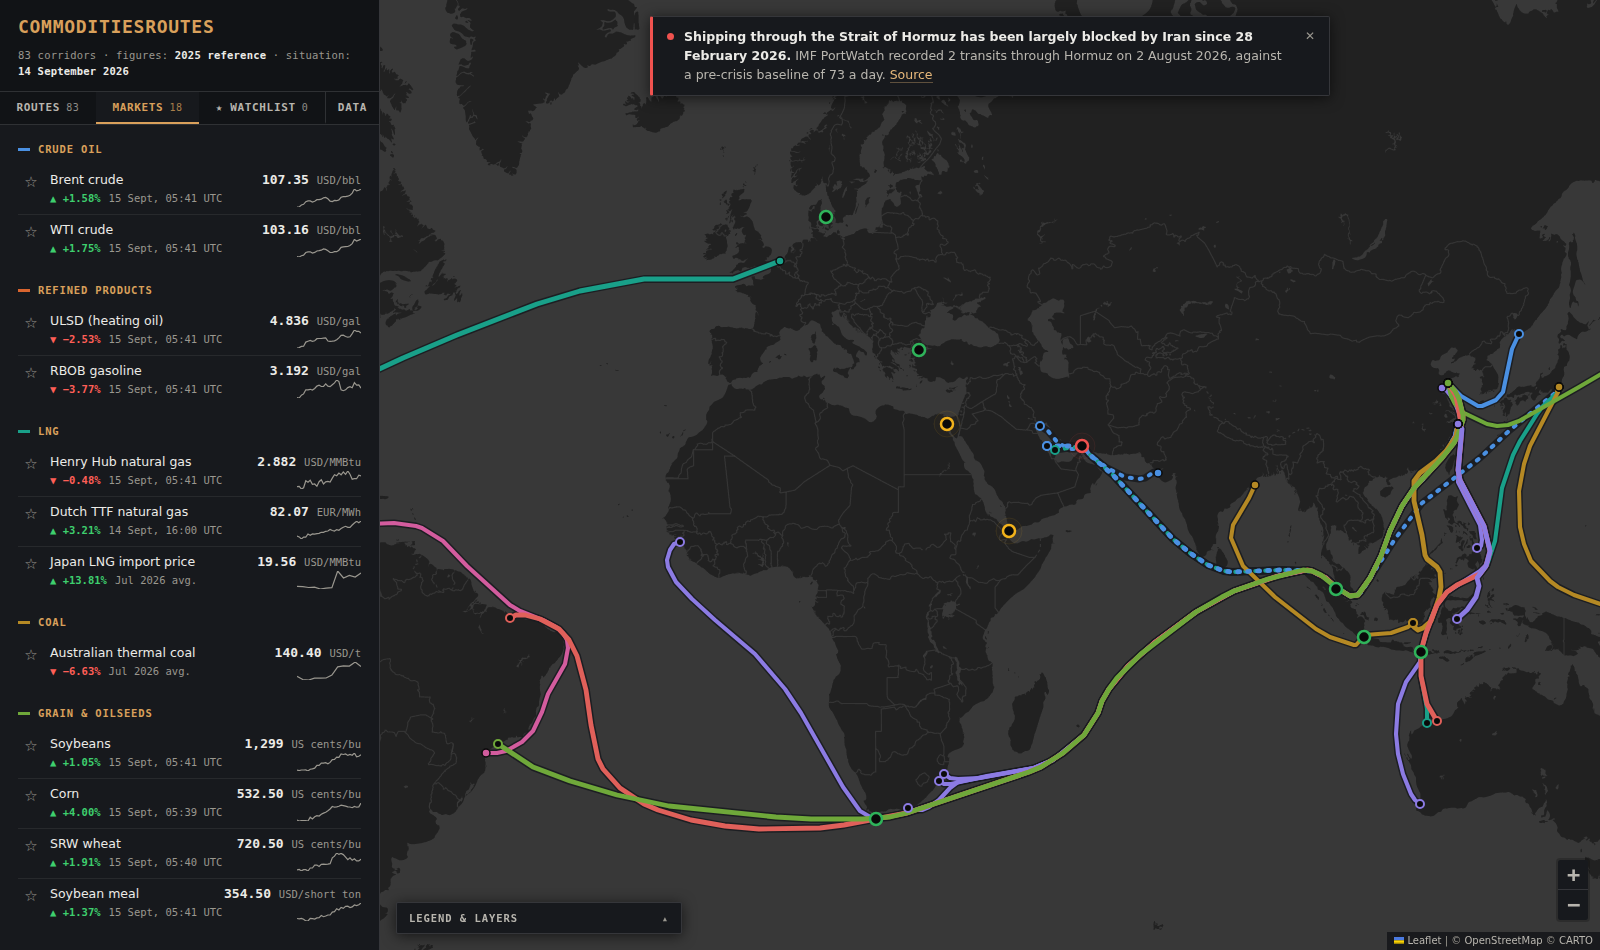
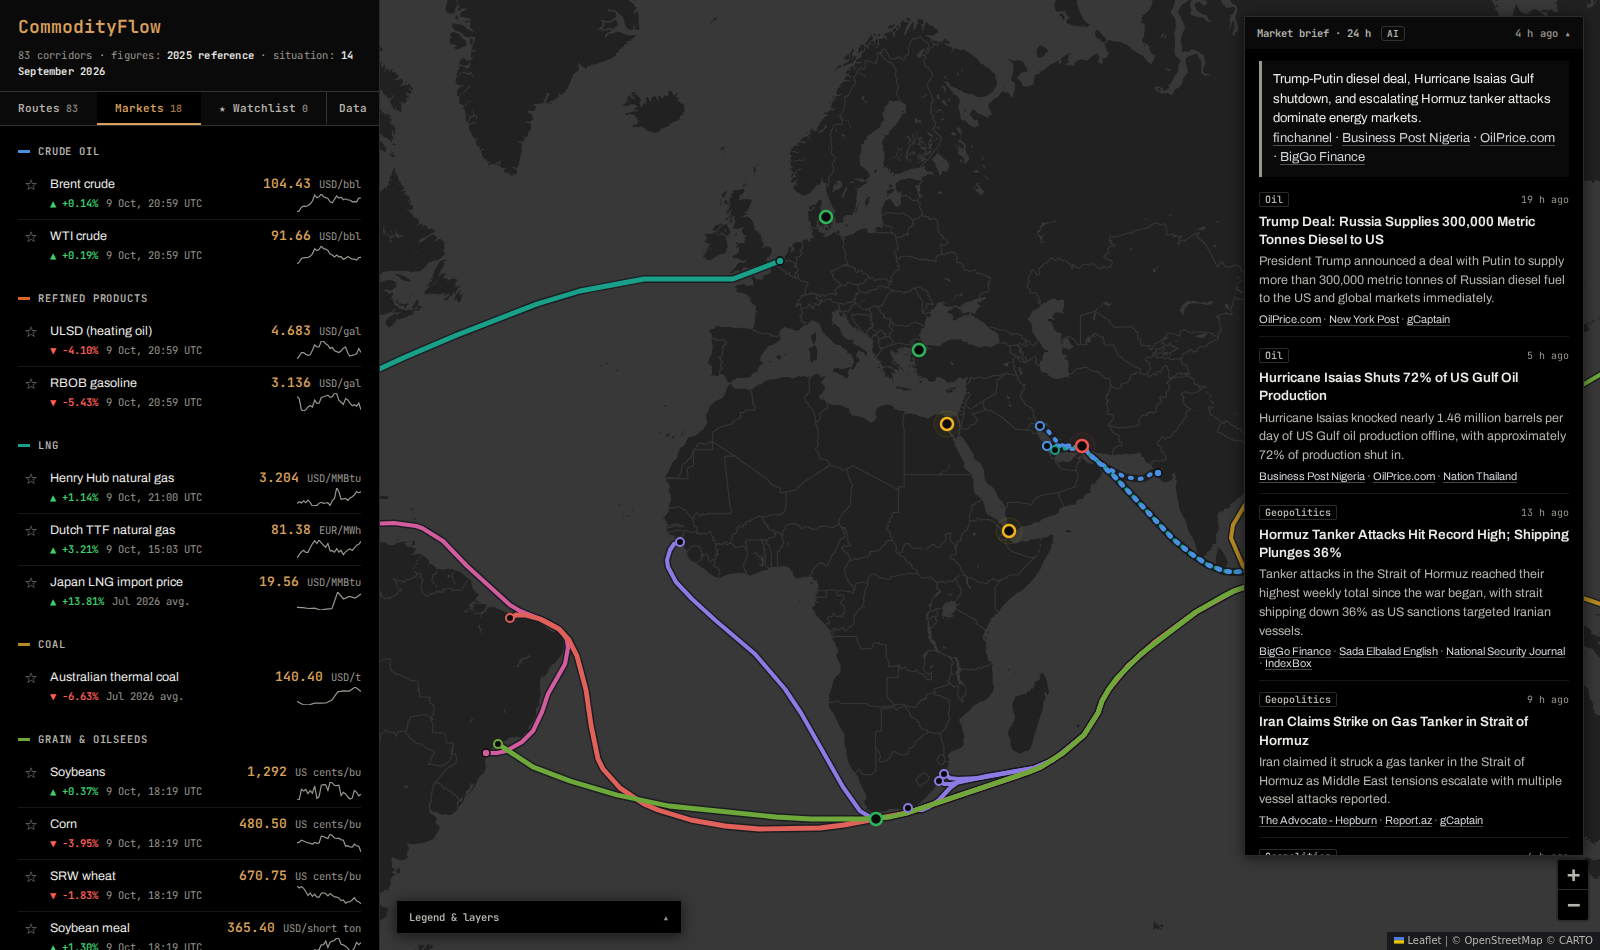
Docs and screenshots up to date for audit

diff --git a/src/index.css b/src/index.css
@@ -1,7 +1,7 @@
 /* ==========================================================================
    CommodityFlow
-   A dark, dense market-terminal interface on a CARTO Dark Matter basemap:
-   black panels, amber labels, monospace figures. Series colours live in
+   A dense trading-terminal interface on a CARTO Dark Matter basemap: black
+   panels, Archivo text, JetBrains Mono figures, amber kept for active state. Series colours live in
    commodities.js; this sheet defines the surfaces, the inks and the rules.
    The token names (paper, ink) date from the light theme: paper is the panel
    surface, ink the text, whatever their actual values.

diff --git a/docs/TECHNICAL.md b/docs/TECHNICAL.md
@@ -3,10 +3,11 @@
 An interactive, terminal-style map of the world's major seaborne commodity corridors
 and markets. **83 routes**, **10 chokepoints** and **3 bypass pipelines**, backed by
 **359 sourced facts** from **169 sources** — every figure carries a link and the
-verbatim sentence it was taken from — plus **18 market prices** refreshed
-automatically.
+verbatim sentence it was taken from — plus two automated layers that never enter the
+dataset: **18 market prices** refreshed every 30 minutes and an **AI market brief** of
+the last 24 hours of news, rewritten every two hours.
 
-The sidebar has one menu with four entries:
+The sidebar has one menu with four entries (five on small screens):
 
 - **Routes** — filters (commodity, sub-family, country, search) and the route list.
 - **Markets** — every price, grouped by commodity family, with its daily or monthly
@@ -15,6 +16,8 @@ The sidebar has one menu with four entries:
   detail or price). Saved in your browser only (localStorage, no account). One click
   shows only the watchlist routes on the map.
 - **Data** — the *Data & sources* tables.
+- **News** (under 900 px only) — the AI market brief, which floats on the right of the
+  map on wider screens.
 
 ## Getting started
 
@@ -49,14 +52,18 @@ can open by double-clicking, see [Standalone file](#standalone-file-no-server).
 - **Filters compose** — commodity, sub-family, country and search stack, and a
   *Clear filters* link resets them in one click.
 - **Hover the list** — pointing at a row thickens its line on the map.
-- **Route detail** — origin, destination, drawn distance, the key figure, the
-  evidence for the status, a short analysis, every other sourced fact and the
-  chokepoints crossed. Each fact shows a scope badge (*this corridor*, *exporter*,
+- **Route detail** — estimated days at sea (vessel class and speed), distance, status,
+  then two blocks that never mix: the **2025 reference** (key figure and a three-line
+  trading context — sellers, buyers, why the route matters) and the **current
+  situation** (status, its evidence, market prices now). A **freight** block gives the
+  sailing-time calculation and any published transit time. Every other sourced fact
+  and the chokepoints crossed follow. Each fact shows a scope badge (*this corridor*, *exporter*,
   *importer*, *chokepoint*…), its period, a link to the source and, on demand, the
   verbatim quote.
 - **Data & sources** — a full-screen table of every fact (searchable, filterable by
   scope and by source), every source with its citation count, and every route with
-  its key figure. The five CSV files can be downloaded from there.
+  its freight data, key figure and current status. Every CSV file can be downloaded
+  from there.
 - **Chokepoints** — Hormuz, Malacca, Suez, Bab el-Mandeb, Cape of Good Hope,
   Panama, the Turkish Straits, the Danish Straits, Lombok, Sunda. Click one for
   its sourced volumes and the list of routes using it.
@@ -68,6 +75,11 @@ can open by double-clicking, see [Standalone file](#standalone-file-no-server).
   hidden, and a checkbox disables the behaviour.
 - **Hormuz bypass pipelines** — Petroline, ADCOP, Goreh-Jask, dashed in grey,
   with their capacities.
+- **AI market brief** — a collapsible panel on the right of the map: 5 to 8 commodity
+  and geopolitical stories from the last 24 hours, each linked to its articles (see
+  [AI news brief](#ai-news-brief)).
+- **Watchlist** — star routes and prices; one toggle shows only the starred routes
+  on the map.
 
 ## Data
 
@@ -109,7 +121,7 @@ analysis says so. Line thickness is an ordinal rank from 1 to 5, not a measureme
 ## Live market prices
 
 Alongside the verified dataset, the map shows **market prices refreshed automatically**:
-a *Markets* panel under the commodity filter, *Market prices now* in each route's
+the *Markets* tab of the sidebar, starred prices in the *Watchlist*, *Market prices now* in each route's
 current-situation block (with the gap to the 2025 average), and a *Market prices* tab in
 *Data & sources*. These prices are an automated feed and never enter `data/facts.csv`.
 
@@ -214,8 +226,9 @@ check; pages that block automated requests and PDFs are listed for a manual look
 
 ### `npm run check:english`
 
-Walks every user-facing string — route names, fact statements, analyses, ports,
-chokepoints, pipelines, commodities, statuses and JSX literals — and fails if anything
+Walks every user-facing string — route names, fact statements, trading contexts,
+situations, analyses, vessel labels, ports, chokepoints, pipelines, commodities,
+statuses and JSX literals — and fails if anything
 still reads as French. Quotes are verbatim and are not checked.
 
 ### `npm run check:data`
@@ -224,8 +237,13 @@ still reads as French. Quotes are verbatim and are not checked.
   commodities, statuses, sub-families.
 - **Evidence** — every route, chokepoint and pipeline has facts and a lead fact that
   applies to it; any status other than normal cites a fact; every fact has a quote;
-  every number of a statement appears in its quote; analyses and commodity blurbs
-  carry no figures; every source is cited.
+  every number of a statement appears in its quote; trading contexts, analyses,
+  situations and commodity blurbs carry no figures; every source is cited.
+- **Periods** — a lead fact is always a 2025 reference figure; a war-period fact is
+  never filed as baseline.
+- **Freight** — every vessel class has a sourced speed; distance and transit facts
+  apply to their route; a drawn path more than 20% away from the published distance
+  is reported as a warning.
 - **Geography** — a route that declares a strait passes through it and a route that
   passes through one declares it (a route's own port never counts as a transit:
   Fujairah sits 1.4° from Hormuz precisely because it exists to avoid it); path
@@ -249,31 +267,44 @@ The Natural Earth basemap is downloaded on first run into `scripts/.cache/`
 ## Structure
 
 ```
-data/                  the dataset — sources, facts, routes, chokepoints, pipelines (CSV)
+data/                  the dataset — sources, facts, routes, chokepoints, pipelines, vessels (CSV)
+  live/                inputs of the automated layers: instruments.csv (prices), news_sources.csv (news)
 src/
   data/
     csv.js             CSV reader/writer
-    dataset.js         builds routes/facts/sources objects from the CSV text
+    dataset.js         builds routes/facts/sources/vessels objects from the CSV text (incl. sailing days)
     index.js           the dataset as the app imports it (CSV inlined at build time)
     geometry.js        route paths, keyed by route id
     waypoints.js       ports (with country), chokepoint positions, pipeline paths, segments
     commodities.js     8 families, validated palette, sub-filters, statuses
     filters.js         country filter helpers
     scopes.js          fact scope labels
+    timeframes.js      war start date, SITUATION_AS_OF, period labels
+    live.js            useLiveJson (shared fetch + keep-last-good) and the market prices
+    news.js            the AI market brief feed
+    favorites.js       watchlist in localStorage
   lib/geo.js           Chaikin smoothing, antimeridian handling, distances
   components/
     MapView.jsx        Leaflet rendering (casings, lines, markers, tooltips)
-    DetailPanel.jsx    route and chokepoint cards   Facts.jsx  fact cards
+    DetailPanel.jsx    route and chokepoint cards (reference, current, freight)   Facts.jsx  fact cards
     DataView.jsx       Data & sources tables
+    MarketsPanel.jsx   prices, sparklines   Watchlist.jsx  Star.jsx
+    NewsPanel.jsx      AI market brief (floating panel / sidebar tab)
     CommodityFilter.jsx  CountryFilter.jsx  RouteList.jsx  MapPanel.jsx
   App.jsx              application state and layout
 scripts/
   lib/dataset.mjs      loads data/*.csv for the scripts
-  audit-routes.mjs     dataset integrity, evidence rules, geographic consistency
+  audit-routes.mjs     dataset integrity, evidence, period, freight and geographic rules
   check-sources.mjs    online re-verification of every quote
   check-english.mjs    translation guard
   check-land.mjs       land/sea check
+  check-live.mjs       instruments.csv + price fetcher self-test
+  check-news.mjs       news_sources.csv + category sync + news builder self-test
+  live/fetch_prices.py market prices (Yahoo Finance, FRED) → prices.json
+  news/build_news.py   headlines → Claude Haiku → validated news.json
   bundle-standalone.mjs  single-file HTML build
+.github/workflows/     update-prices.yml (every 30 min), update-news.yml (every 2 h)
+.claude/agents/        freight-analyst.md, the freight research subagent
 ```
 
 ### Design notes
@@ -284,8 +315,13 @@ scripts/
 - **Antimeridian** — trans-Pacific routes are stored with continuous longitudes
   beyond ±180° (e.g. `-220` = 140°E); `pathVariants()` draws a ∓360° copy so they
   stay visible from any pan position.
-- **Theme** — dark market-terminal style: charcoal panels, muted amber monospace labels,
-  CARTO *Dark Matter* basemap. Tokens are at the top of `src/index.css`.
+- **Theme** — trading-terminal style on a CARTO *Dark Matter* basemap: pure black
+  panels, *Archivo* for text and *JetBrains Mono* for every figure and label (Google
+  Fonts, with system fallbacks). Amber is a state colour only — selected tab, active
+  filter, starred item, the live price — and links are a neutral grey. Tags are square
+  and monospace; status tags read `[ … ]` instead of a filled pill. Uppercase tracked
+  labels are kept for one level only, section headings. Tokens are at the top of
+  `src/index.css`.
 - **Palette** — stepped for the dark basemap and **validated**, not eyeballed, with
   the dataviz palette validator (dark mode, water `#383838` after the tile filter, also passing on `#262626`): every hue inside the
   OKLCH lightness band, colour-vision separation ΔE 11.5 on the worst adjacent pair,

diff --git a/CLAUDE.md b/CLAUDE.md
@@ -14,7 +14,7 @@ Node comes from nvm and is not on the PATH of non-interactive shells — prefix 
 
 ```bash
 npm run dev               # http://localhost:5173
-npm run check             # lint → check:english → check:data → check:land → build (run before declaring work done)
+npm run check             # lint → check:english → check:data → check:live → check:news → check:land → build (run before declaring work done)
 npm run check:data        # references, evidence rules (numbers vs quotes), chokepoint/geography consistency
 npm run check:sources     # online: re-fetches every source page and looks for each quote (not in `check`)
 npm run check:land        # every smoothed path tested against Natural Earth 50 m land
@@ -74,12 +74,15 @@ Each check script is standalone (`node scripts/<name>.mjs`); there is no per-tes
 
 ## Sidebar and watchlist
 
-- The sidebar menu (`view` state in `App.jsx`: routes · markets · watchlist, plus the Data overlay) switches panels; selecting a route or chokepoint shows its detail on top of the current view, and "back" returns to it.
+- The sidebar menu (`view` state in `App.jsx`: routes · markets · watchlist, plus a `news` tab shown only under 900 px, and the Data overlay) switches panels; selecting a route or chokepoint shows its detail on top of the current view, and "back" returns to it.
 - `src/data/favorites.js` (`useWatchlist`) stores starred route ids and instrument ids in localStorage (`commoditymap:watchlist:v1`), every access guarded. `watchOnly` in `App.jsx` restricts `visibleRoutes` (so the map too) to starred routes.
 
 ## Styling constraints
 
-- Dark terminal theme (CARTO Dark Matter, water `#383838` after the tile-pane filter); CSS tokens at the top of `src/index.css` (`--paper` = panel surface, `--ink` = text, `--accent` amber). The 8 commodity colours are validated for colour-vision deficiency against that water colour with the dataviz validator in dark mode — re-run it if the basemap or a hue changes; the **order is the safety mechanism**. Do not reorder, recolour ad hoc, or add a 9th hue — new groupings go into sub-filters, which narrow the display without repainting.
+- Trading-terminal theme (CARTO Dark Matter, water `#383838` after the tile-pane filter; pure black panels). CSS tokens at the top of `src/index.css` (`--paper` = panel surface, `--ink` = text, `--accent` amber). Fonts: `--sans` Archivo, `--mono` JetBrains Mono, loaded from Google Fonts in `index.html` with system fallbacks; every displayed figure uses `--mono`.
+- Amber (`--accent`) is a state colour only (active tab/filter/toggle, starred item, checked box, the live price value, the *this corridor* tag) — never for headings, decoration or links; `--link` is neutral grey. `--up`/`--down` are for price changes only.
+- Tags are square (`--radius-sm`), bordered, monospace — no `999px` pills; status tags (`.scope--status`, `.timeframe--current`) get `[ ]` brackets via `::before`/`::after`, no filled background. Uppercase + letter-spacing is reserved for section headings (`.eyebrow`, `.detail__block h3`, `.sources__title`, `.period__title`, `.mappanel__group h4`).
+- There is deliberately no banner over the map: the current situation lives in route/chokepoint statuses and the AI market brief. The 8 commodity colours are validated for colour-vision deficiency against that water colour with the dataviz validator in dark mode — re-run it if the basemap or a hue changes; the **order is the safety mechanism**. Do not reorder, recolour ad hoc, or add a 9th hue — new groupings go into sub-filters, which narrow the display without repainting.
 - Status is never conveyed by colour alone (icon + label + dash pattern).
 - Leaflet's CSS loads after `src/index.css`, so overrides of Leaflet classes need doubled specificity (e.g. `.leaflet-tooltip.wm-tooltip`).
 - Strings inside single-quoted JS literals use the typographic apostrophe `’`, not `'`.

diff --git a/data/README.md b/data/README.md
@@ -162,8 +162,8 @@ hand), and PDFs (search the PDF for the quote). Limit it to some sources with
 
 ## `live/instruments.csv` — market prices (automated)
 
-Not part of the verified dataset: these series are fetched automatically (see the
-main README, *Live market prices*).
+Not part of the verified dataset: these series are fetched automatically (see
+`docs/TECHNICAL.md`, *Live market prices*).
 
 | column | meaning |
 |---|---|
@@ -178,3 +178,20 @@ main README, *Live market prices*).
 
 The first instrument of each family is the one shown when all families are selected.
 Run `npm run check:live`, then `npm run prices` to try a change locally.
+
+## `live/news_sources.csv` — feeds for the AI market brief (automated)
+
+Not part of the verified dataset either: the headlines the news brief is written from
+(see `docs/TECHNICAL.md`, *AI news brief*).
+
+| column | meaning |
+|---|---|
+| `source_id` | unique id, lowercase with dashes |
+| `name` | label, used as the publisher for RSS feeds |
+| `kind` | `rss` (a publisher feed) or `google_news` (a Google News search) |
+| `url_or_query` | the https feed URL, or the search query (Google News syntax: `OR`, quotes) |
+| `topic` | `shipping`, `energy`, `metals`, `agri` or `geopolitics` |
+| `max_items` | at most this many headlines from the feed per run, spread over the 24 hours |
+
+Run `npm run check:news`, then `npm run news` (needs `ANTHROPIC_API_KEY` in `.env`)
+to try a change locally.

diff --git a/README.md b/README.md
@@ -4,7 +4,7 @@
 whom, through which straits, on which ships, and what changed when the Strait of Hormuz
 closed.**
 
-![CommodityFlow — 83 seaborne commodity corridors on a world map](docs/screenshots/overview.png)
+![CommodityFlow — 83 seaborne commodity corridors on a world map, with the AI market brief on the right](docs/screenshots/overview.png)
 
 ## Why this map exists
 
